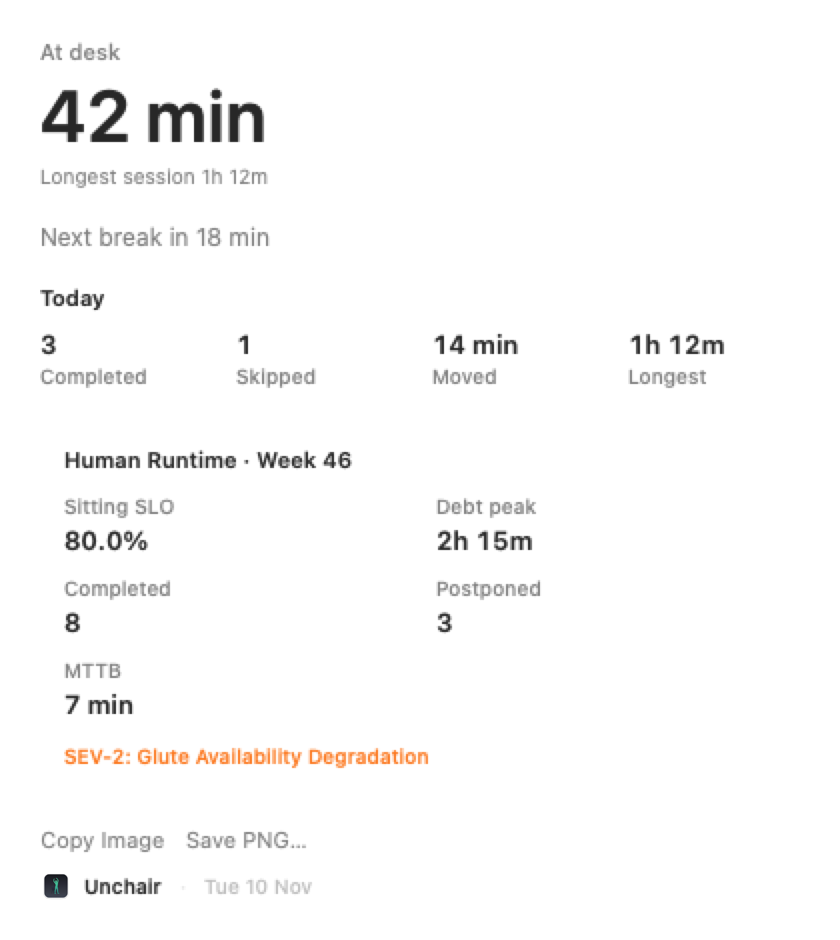
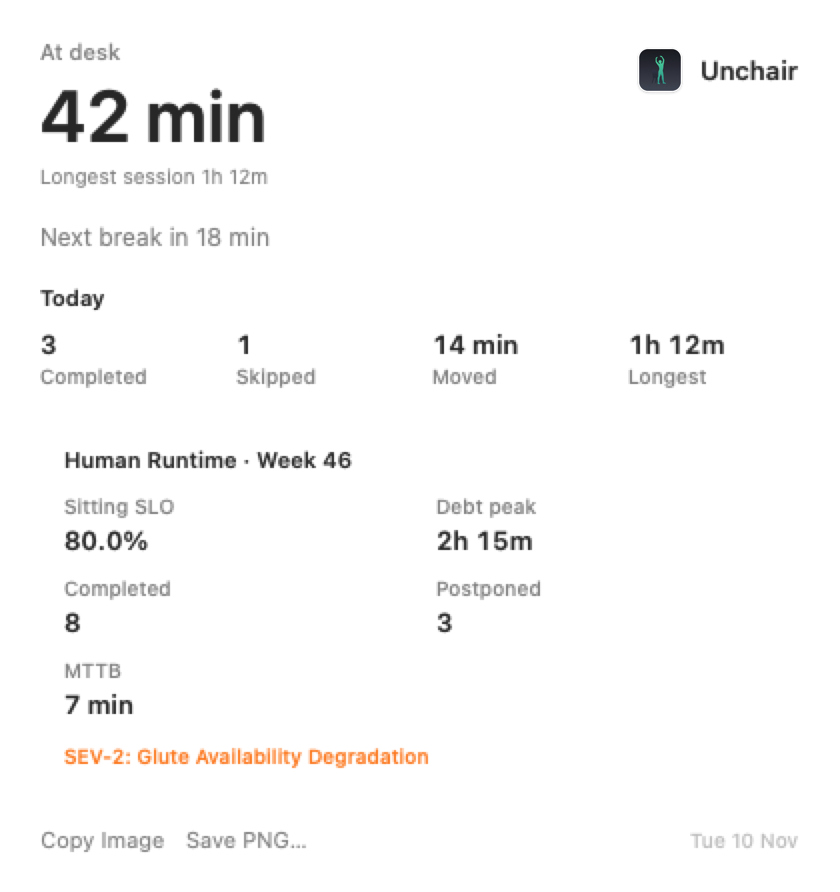
fix(ui): park Unchair brand in Today top-right (#85)
Move the logo + wordmark out of the tiny footer into the empty hero
trailing corner so the product mark reads at a glance.

diff --git a/Unchair/UI/TodayView.swift b/Unchair/UI/TodayView.swift
@@ -91,23 +91,31 @@ struct TodayDashboardLayout: View {
     }
 
     private var hero: some View {
-        VStack(alignment: .leading, spacing: 3) {
-            Text(model.heroEyebrow)
-                .font(.subheadline.weight(.medium))
-                .foregroundStyle(.secondary)
-            Text(model.heroValue)
-                .font(.system(size: 36, weight: .semibold).monospacedDigit())
-                .minimumScaleFactor(0.6)
-                .lineLimit(1)
-            Text(model.heroCaption)
-                .font(.caption)
-                .foregroundStyle(.secondary)
-                .fixedSize(horizontal: false, vertical: true)
+        HStack(alignment: .top, spacing: 12) {
+            VStack(alignment: .leading, spacing: 3) {
+                Text(model.heroEyebrow)
+                    .font(.subheadline.weight(.medium))
+                    .foregroundStyle(.secondary)
+                Text(model.heroValue)
+                    .font(.system(size: 36, weight: .semibold).monospacedDigit())
+                    .minimumScaleFactor(0.6)
+                    .lineLimit(1)
+                Text(model.heroCaption)
+                    .font(.caption)
+                    .foregroundStyle(.secondary)
+                    .fixedSize(horizontal: false, vertical: true)
+            }
+            .frame(maxWidth: .infinity, alignment: .leading)
+            .accessibilityElement(children: .ignore)
+            .accessibilityLabel(model.heroAccessibilityLabel)
+            .accessibilityAddTraits(.isHeader)
+
+            UnchairBrandMark(
+                iconSide: 28,
+                titleFont: .body.weight(.semibold)
+            )
+            .padding(.top, 2)
         }
-        .frame(maxWidth: .infinity, alignment: .leading)
-        .accessibilityElement(children: .ignore)
-        .accessibilityLabel(model.heroAccessibilityLabel)
-        .accessibilityAddTraits(.isHeader)
     }
 
     private var todayBlock: some View {
@@ -158,46 +166,37 @@ struct TodayDashboardLayout: View {
     }
 
     private var footer: some View {
-        VStack(alignment: .leading, spacing: 8) {
-            HStack(alignment: .center, spacing: 10) {
-                Button("Copy Image") {
-                    exportStatus = (onCopyImage ?? defaultCopy)()
-                }
-                .buttonStyle(.borderless)
-                .controlSize(.small)
-                .disabled(model.week.isEmpty)
-                .help(model.week.isEmpty ? "No week history to export" : "Copy branded Human Runtime card")
-                .accessibilityHint(model.week.isEmpty ? "Unavailable until break history exists" : "Copies the weekly card to the clipboard")
-
-                Button("Save PNG…") {
-                    exportStatus = (onSavePNG ?? defaultSave)()
-                }
-                .buttonStyle(.borderless)
-                .controlSize(.small)
-                .disabled(model.week.isEmpty)
-                .help(model.week.isEmpty ? "No week history to export" : "Save branded Human Runtime card as PNG")
-                .accessibilityHint(model.week.isEmpty ? "Unavailable until break history exists" : "Opens a save panel for the weekly card")
-
-                if let exportStatus {
-                    Text(exportStatus)
-                        .font(.caption2)
-                        .foregroundStyle(.tertiary)
-                        .accessibilityLabel("Export \(exportStatus.lowercased())")
-                }
-
-                Spacer(minLength: 8)
+        HStack(alignment: .center, spacing: 10) {
+            Button("Copy Image") {
+                exportStatus = (onCopyImage ?? defaultCopy)()
             }
+            .buttonStyle(.borderless)
+            .controlSize(.small)
+            .disabled(model.week.isEmpty)
+            .help(model.week.isEmpty ? "No week history to export" : "Copy branded Human Runtime card")
+            .accessibilityHint(model.week.isEmpty ? "Unavailable until break history exists" : "Copies the weekly card to the clipboard")
 
-            HStack(alignment: .center, spacing: 8) {
-                UnchairBrandMark(iconSide: 16, titleFont: .caption.weight(.semibold))
-                Text("·")
-                    .font(.caption2)
-                    .foregroundStyle(.quaternary)
-                Text(model.dayLabel)
+            Button("Save PNG…") {
+                exportStatus = (onSavePNG ?? defaultSave)()
+            }
+            .buttonStyle(.borderless)
+            .controlSize(.small)
+            .disabled(model.week.isEmpty)
+            .help(model.week.isEmpty ? "No week history to export" : "Save branded Human Runtime card as PNG")
+            .accessibilityHint(model.week.isEmpty ? "Unavailable until break history exists" : "Opens a save panel for the weekly card")
+
+            if let exportStatus {
+                Text(exportStatus)
                     .font(.caption2)
                     .foregroundStyle(.tertiary)
-                Spacer(minLength: 0)
+                    .accessibilityLabel("Export \(exportStatus.lowercased())")
             }
+
+            Spacer(minLength: 8)
+
+            Text(model.dayLabel)
+                .font(.caption2)
+                .foregroundStyle(.tertiary)
         }
     }
 
